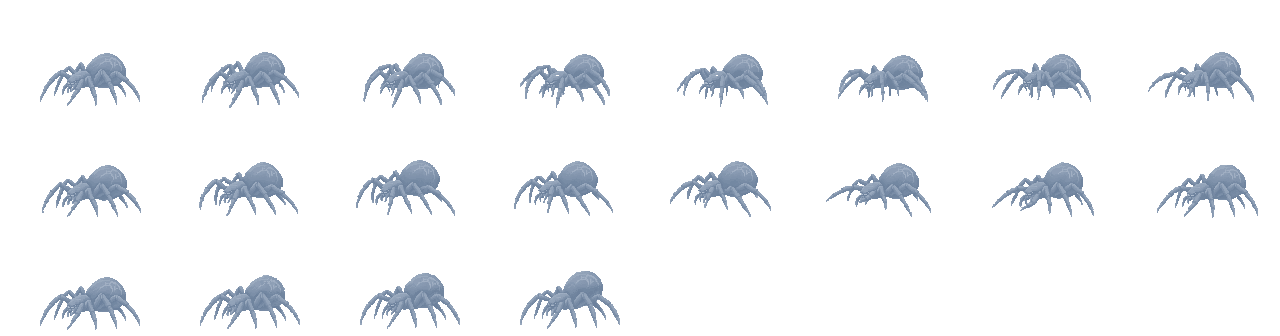
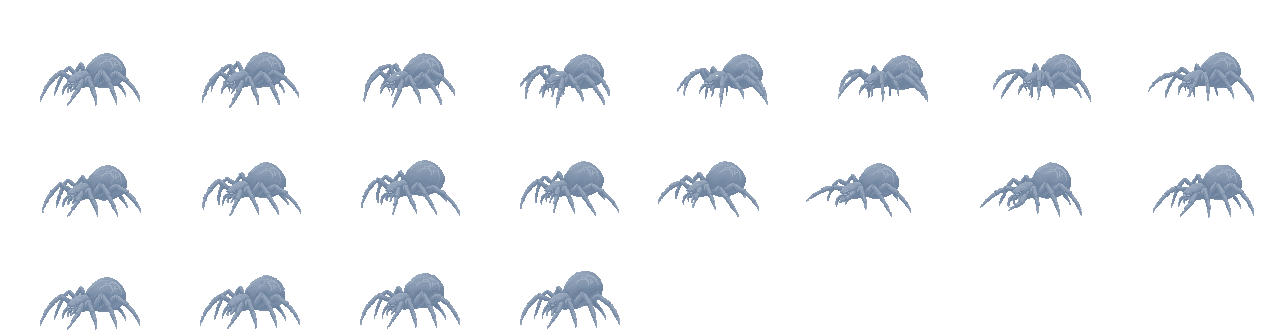
외눈 유령 도트 시트 추가와 거미 물기 동작 강화
- 외눈 유령: PixelLab으로 떠다니기 16칸, 공격 8칸 시트를 새로 만들어 1스테이지 적·떠도는 유령·분신에 적용
  - 떠다니기는 위아래로 4px씩 둥실둥실 움직이고, 마지막 칸을 첫 칸에 맞춰 끊김 없이 반복
  - 공격은 움츠렸다가 앞으로 14px 들이받고 원래 자세로 돌아온다
- 거미: 물기 때 뒤로 6px 웅크렸다가 앞으로 최대 20px 덮치도록 키움
- PixelLab 도구: 일러스트를 도트로 바꾸는 부분(pixelize)을 거미·유령이 함께 쓰고, animate에 마지막 칸 고정 옵션 추가

diff --git a/tools/monster_pixel/pixellab_watcher.py b/tools/monster_pixel/pixellab_watcher.py
@@ -1,0 +1,62 @@
+"""PixelLab API로 외눈 유령 도트 시트(떠다니기 16, 공격 8)를 만든다.
+
+사용: python tools/monster_pixel/pixellab_watcher.py [원본 일러스트.png]
+  원본을 주면 기본 도트(watcher_base.png)부터 새로 만들고, 없으면 있는 기본 도트로 동작만 만든다.
+결과: assets/몬스터_도트/pixellab/watcher.png, watcher_echo.png (한 칸 112 × 136, 왼쪽을 봄)
+필요: 환경변수 PIXELLAB_TOKEN
+"""
+import sys
+from math import pi, sin
+
+from PIL import Image
+
+from pixellab_spider import OUT, animate, drop_specks, echo, lunge, pixelize, to_palette
+
+W, H = 112, 136
+BOTTOM = 124               # 기본 자세의 촉수 끝 줄 (위아래로 떠다닐 여유를 둔다)
+BOB = 4                    # 떠다니기 한 바퀴(16칸) 동안 위아래로 움직이는 폭(px)
+ROWS = (                   # 줄 순서는 monster_sprite.py와 같다: 떠다니기, 공격 / (이름, 칸 수, 시드, 동작)
+    ('float', 16, 0, 'floating one-eyed ghost hovering in place, tentacles and ragged cloak gently waving and swaying, eye blinks once, side view facing left'),
+    # 처음 지시(눈을 부릅뜨고 들이받기)는 파란 불꽃 오라만 커지고 돌아오지 않았다. 시드 3·13·23 중 3을 골랐다.
+    ('attack', 8, 3, 'one-eyed ghost ram attack: it shrinks back and tilts away, then dashes forward to the left and rams with its horned head, then floats back to its starting pose. no fire, no glow, no aura, no effects, the body keeps its colors. side view'),
+)
+# 공격 줄 칸마다 몸을 옮기는 양(+ 뒤, - 앞=왼쪽). PixelLab은 몸을 거의 제자리에 둬서 들이받는 이동은 코드로 준다.
+RAM = (2, 4, 6, 6, -8, -14, -8, -2)
+
+
+def make_base(src_path):
+    img = pixelize(src_path, height=100)
+    base = Image.new('RGBA', (W, H), (0, 0, 0, 0))
+    base.paste(img, ((W - img.width) // 2, BOTTOM - img.height))
+    return base
+
+
+def shift(frame, dy):
+    out = Image.new('RGBA', frame.size, (0, 0, 0, 0))
+    out.paste(frame, (0, dy))
+    return out
+
+
+if __name__ == '__main__':
+    OUT.mkdir(parents=True, exist_ok=True)
+    base_path = OUT / 'watcher_base.png'
+    if len(sys.argv) > 1:
+        make_base(sys.argv[1]).save(base_path)
+        print('base saved')
+    base = Image.open(base_path).convert('RGBA')
+    palette = sorted({c[:3] for c in base.get_flattened_data() if c[3]})
+    sheet = Image.new('RGBA', (W * 16, H * len(ROWS)), (0, 0, 0, 0))
+    for row, (name, count, seed, action) in enumerate(ROWS):
+        # 마지막 칸을 기본 자세로 고정한다: 떠다니기는 끊김 없이 반복되고, 공격은 떠다니기로 자연스럽게 돌아간다.
+        frames = animate(base, name, count, action, seed, last_frame=base)
+        frames = frames[:count] if name == 'float' else frames[1:]   # 떠다니기는 마지막(=첫 칸)을, 공격은 첫 칸을 뺀다
+        for column, frame in enumerate(frames[:count]):
+            frame = drop_specks(to_palette(frame, palette), keep=30)
+            if name == 'float':   # 둥실둥실: 한 바퀴에 한 번 위로 올라갔다 내려온다
+                frame = shift(frame, round(-BOB * sin(2 * pi * column / count)))
+            else:
+                frame = lunge(frame, RAM[column])
+            sheet.paste(frame, (column * W, row * H))
+        print(name, len(frames))
+    sheet.save(OUT / 'watcher.png')
+    echo(sheet).save(OUT / 'watcher_echo.png')

diff --git a/tools/monster_pixel/pixellab_spider.py b/tools/monster_pixel/pixellab_spider.py
@@ -25,16 +25,19 @@ ROWS = (                   # 줄 순서는 monster_sprite.py와 같다: 걷기, 
     ('attack', 8, 43, 'spider lunge bite: the spider crouches low, then its whole body darts forward to the left close to the ground and it bites with the small fangs under its eyes, the fangs open and snap shut at the front of the head, then it scuttles back to its starting pose. legs keep the same size and shape, nothing grows. side view'),
     ('idle', 4, 0, 'spider idle, body gently bobbing up and down, legs twitching slightly, fangs moving, side view'),
 )
+# 물기 줄 칸마다 몸을 옮기는 양(+ 뒤, - 앞=왼쪽). PixelLab 동작만으로는 덮치는 폭이 작아 무는 느낌이 약했다.
+LUNGE = (0, 3, 5, 6, -12, -20, -12, -4)
 
 
-def make_base(src_path):
-    """일러스트 → 128칸 도트(원본 반영 300) → 회색 배경 제거."""
+def pixelize(src_path, width=None, height=None):
+    """일러스트 → 128칸 도트(원본 반영 300) → 회색 배경 제거 → 몸에 맞춰 자른 그림.
+    width나 height를 주면 몸 폭(또는 높이)이 128칸 중 그만큼이 되게 맞춘다."""
     src = Image.open(src_path).convert('RGBA')
     solid = src.getchannel('A').point(lambda v: 255 if v > 128 else 0)   # 원본의 옅은 얼룩은 버린다
     box = solid.getbbox()
     body = src.crop(box)
     body.putalpha(solid.crop(box))
-    side = round(body.width * 128 / 100)        # 거미 폭이 128칸 중 100칸
+    side = round(body.width * 128 / width) if width else round(body.height * 128 / height)
     sq = Image.new('RGBA', (side, side), (0, 0, 0, 0))
     sq.paste(body, ((side - body.width) // 2, (side - body.height) // 2))
     sq = sq.resize((512, 512), Image.LANCZOS)
@@ -60,10 +63,23 @@ def make_base(src_path):
         for x in range(128):
             if (x, y) in seen or near(px[x, y], 4):
                 px[x, y] = (0, 0, 0, 0)
-    img = img.crop(img.getbbox())   # 색 수를 줄이지 않는다: 줄이면 6픽셀짜리 주황 눈이 사라진다
+    return img.crop(img.getbbox())   # 색 수를 줄이지 않는다: 줄이면 6픽셀짜리 주황 눈이 사라진다
+
+
+def make_base(src_path):
+    img = pixelize(src_path, width=100)
     base = Image.new('RGBA', (W, H), (0, 0, 0, 0))
     base.paste(img, (LEFT, FEET - img.height))
     return base
+
+
+def lunge(frame, dx):
+    """칸 안에서 그림을 dx만큼 옆으로 옮긴다. 칸 밖으로 잘려 나가면 안 된다."""
+    box = frame.getbbox()
+    assert box is None or (box[0] + dx >= 0 and box[2] + dx <= frame.width), (box, dx)
+    out = Image.new('RGBA', frame.size, (0, 0, 0, 0))
+    out.paste(frame, (dx, 0))
+    return out
 
 
 if __name__ == '__main__':
@@ -82,6 +98,8 @@ if __name__ == '__main__':
             frame = drop_specks(to_palette(frame, palette), keep=30)
             # 거미는 어느 칸에서도 y 48 위로 올라가지 않는다. 그 위는 PixelLab이 만든 연기 같은 덩어리라 지운다.
             frame.paste((0, 0, 0, 0), (0, 0, W, SKY))
+            if name == 'attack':
+                frame = lunge(frame, LUNGE[column])
             sheet.paste(frame, (column * W, row * H))
         print(name, len(frames))
     sheet.save(OUT / 'spider.png')

diff --git a/monster_sprite.py b/monster_sprite.py
@@ -15,9 +15,11 @@ KINDS = frozenset(('crawler', 'watcher', 'tier_ghost'))
 GHOST_SCALE, GHOST_TINT, GHOST_ALPHA = 0.75, (190, 170, 255), 205
 HOVER = 4                      # 외눈 유령은 바닥에서 조금 떠 있다
 WINDUP, RECOVERY, STRIKE = 0.31, 0.65, 0.4   # world.py의 준비·회복 시간, 회복 중 물기 동작 길이
-# 거미는 PixelLab 시트(tools/monster_pixel/pixellab_spider.py)를 쓴다. 줄 순서는 같고 공격은 이빨 물기.
+# 거미·외눈 유령은 PixelLab 시트(tools/monster_pixel/pixellab_spider.py, pixellab_watcher.py)를 쓴다.
+# 줄 순서는 같다. 거미 공격은 이빨 물기, 유령 떠다니기는 위아래로 둥실둥실.
 # monster_sheets.json은 make_monsters.py가 다시 쓰므로 여기서 덮어쓴다.
 SPIDER = {'sheet': 'pixellab/spider', 'size': (160, 112), 'feet': 106, 'center': 90}
+WATCHER = {'sheet': 'pixellab/watcher', 'size': (112, 136), 'feet': 124, 'center': 56}
 
 
 def attack_frame(windup, recovery):
@@ -32,7 +34,7 @@ def attack_frame(windup, recovery):
 class MonsterSprite:
     def __init__(self, load):
         self.meta = json.loads((ASSET_ROOT / '몬스터_도트' / 'monster_sheets.json').read_text(encoding='utf-8'))
-        self.meta['crawler'] = SPIDER
+        self.meta['crawler'], self.meta['watcher'] = SPIDER, WATCHER
         self.sheets = {(kind, echo): load(f'몬스터_도트/{info["sheet"]}{"_echo" if echo else ""}.png')
                        for kind, info in self.meta.items() for echo in (False, True)}
 
@@ -71,11 +73,11 @@ class StageOneFolderMonsters(MonsterSprite):
     def __init__(self, load):
         self.meta = {
             'crawler': SPIDER,
-            'watcher': {'size': (96, 124), 'feet': 113, 'center': 47},
+            'watcher': WATCHER,
         }
         self.sheets = {
             ('crawler', False): load(f'몬스터_도트/{SPIDER["sheet"]}.png'),
-            ('watcher', False): load('몬스터_도트/folder_watcher.png'),
+            ('watcher', False): load(f'몬스터_도트/{WATCHER["sheet"]}.png'),
         }
         for image in self.sheets.values():
             sdl2.SDL_SetTextureScaleMode(image.texture, sdl2.SDL_ScaleModeNearest)

diff --git a/tools/hero_pixel/pixellab_hero_anims.py b/tools/hero_pixel/pixellab_hero_anims.py
@@ -116,11 +116,13 @@ def drop_head_sparkles(frame):
     return drop_specks(out)
 
 
-def animate(base, name, n, action, seed=None):
+def animate(base, name, n, action, seed=None, last_frame=None):
     body = {"first_frame": b64(base), "action": action, "frame_count": n, "no_background": True,
             "seed": SEED.get(name, 0) if seed is None else seed}
     if name == "jump":  # 착지 후 기본 자세로 돌아오게 고정 (없으면 마지막 프레임이 뭉개짐)
-        body["last_frame"] = b64(base)
+        last_frame = base
+    if last_frame is not None:
+        body["last_frame"] = b64(last_frame)
     job = call("POST", "/animate-with-text-v3", body)
     jid = job["background_job_id"]
     for _ in range(150):
